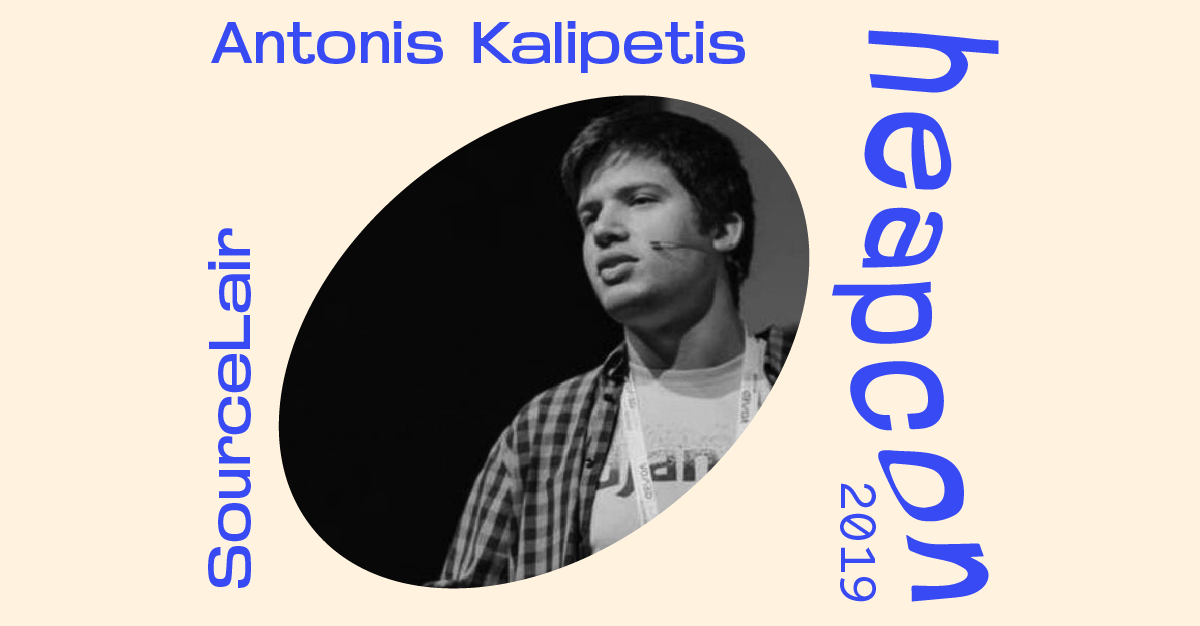
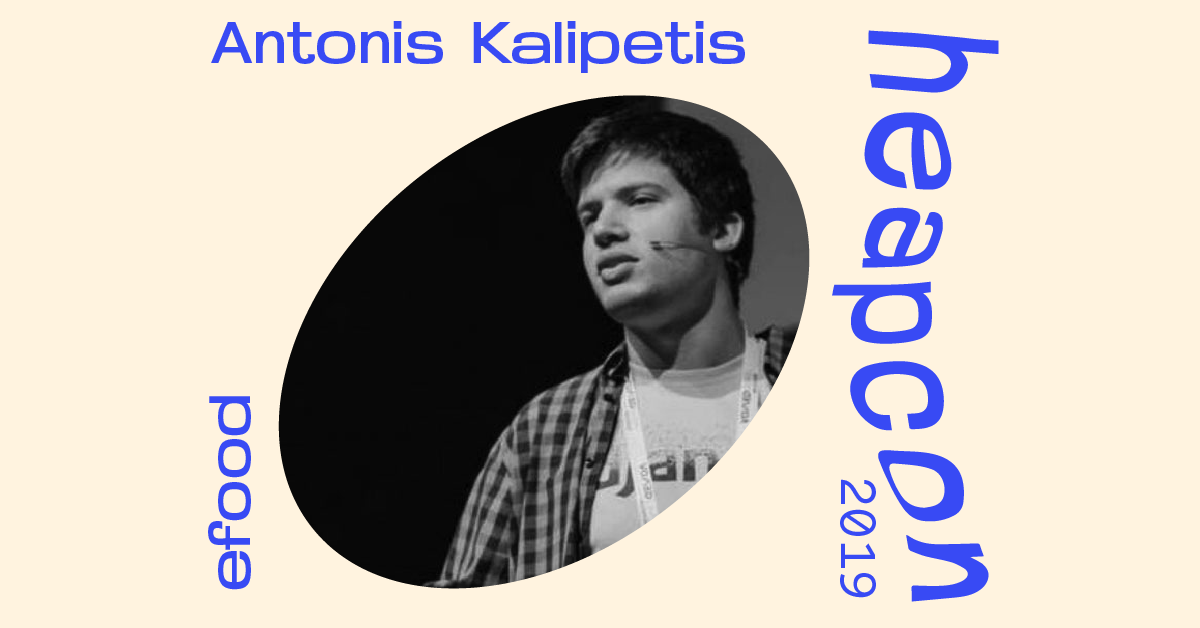
antonis-new

diff --git a/content/speakers/antonis-kalipetis/_index.md b/content/speakers/antonis-kalipetis/_index.md
@@ -1,9 +1,9 @@
 ---
 type: "speaker"
 title: "Antonis Kalipetis"
-company: "SourceLair"
+company: "efood"
 job: "CTO"
 link: ""
 ---
 
-Antonis is leading the technology at SourceLair – a company specialized in creating developer tools, while at the same time helps teams improve their development workflow. He's a Python lover and developer, and a Docker Captain. When not talking about himself in the third person, he loves automating stuff and sharing knowledge around all things containers, DevOps and developer workflows.
+Antonis is a Python lover and developer, and a Docker Captain. When not talking about himself in the third person, he loves automating stuff and sharing knowledge around all things containers, DevOps and developer workflows.
